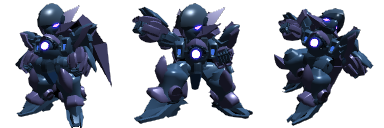
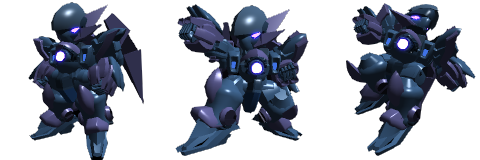
アームドーザ画像をでかくした。

diff --git a/public/javascripts/armdozerInfoScene.js b/public/javascripts/armdozerInfoScene.js
@@ -32,66 +32,66 @@ function armdozerInfoScene(spec,my){
         that.infoWindow = gridWindow({
             pict : core.assets[core.PICT_WINDOW],
             width : 18,
-            height : 10
+            height : 12
         });
         that.infoWindow.x = 16;
         that.infoWindow.y = 70;
         that.addChild(that.infoWindow);
 
         //アームドーザ画像
-        that.armdozerPict = new Sprite(128,128);
+        that.armdozerPict = new Sprite(160,160);
         that.armdozerPict.image = core.assets[core.PICT_PREFIX+armdozerInfo.pictName];
-        that.armdozerPict.x = 20;
+        that.armdozerPict.x = 10;
         that.armdozerPict.y = 90;
         that.addChild(that.armdozerPict);
 
         //アームドーザ名ラベル
         that.armdozerNameLabel = new Label(armdozerInfo.name);
         that.armdozerNameLabel.color = "white";
-        that.armdozerNameLabel.x = 150;
+        that.armdozerNameLabel.x = 160;
         that.armdozerNameLabel.y = 100;
         that.addChild(that.armdozerNameLabel);
 
         //HPラベル
         that.hpLabel = new Label('HP');
         that.hpLabel.color = "white";
-        that.hpLabel.x = 150;
-        that.hpLabel.y = 120;
+        that.hpLabel.x = 160;
+        that.hpLabel.y = 140;
         that.addChild(that.hpLabel);
 
         //HPバリューラベル
         that.hpValueLabel = new Label(armdozerInfo.hp);
         that.hpValueLabel.color = "white";
-        that.hpValueLabel.x = 220;
-        that.hpValueLabel.y = 120;
+        that.hpValueLabel.x = 230;
+        that.hpValueLabel.y = 140;
         that.addChild(that.hpValueLabel);
 
         //攻撃力ラベル
         that.powerLabel = new Label('POWER');
         that.powerLabel.color = 'white';
-        that.powerLabel.x = 150;
-        that.powerLabel.y = 140;
+        that.powerLabel.x = 160;
+        that.powerLabel.y = 160;
         that.addChild(that.powerLabel);
 
         //攻撃力バリューラベル
         that.powerValueLabel = new Label(getPowerLabelValue(armdozerInfo.weapons));
         that.powerValueLabel.color = 'white';
-        that.powerValueLabel.x = 220;
-        that.powerValueLabel.y = 140;
+        that.powerValueLabel.x = 230;
+        that.powerValueLabel.y = 160;
         that.addChild(that.powerValueLabel);
 
         //機動力ラベル
         that.speedLabel = new Label('SPEED');
         that.speedLabel.color = "white";
-        that.speedLabel.x = 150;
-        that.speedLabel.y = 160;
+        that.speedLabel.x = 160;
+        that.speedLabel.y = 180;
         that.addChild(that.speedLabel);
 
         //機動力バリューラベル
         that.speedValueLabel = new Label(armdozerInfo.speed);
         that.speedValueLabel.color = "white";
-        that.speedValueLabel.x = 220;
-        that.speedValueLabel.y = 160;
+        that.speedValueLabel.x = 230;
+        that.speedValueLabel.y = 180;
         that.addChild(that.speedValueLabel);
 
         //決定ボタン

diff --git a/public/javascripts/battleSceneBase.js b/public/javascripts/battleSceneBase.js
@@ -85,12 +85,14 @@ function battleSceneBase(spec,my){
             that.batteryMertorArray[uid].y = 63;
             that.batteryMertorArray[uid].setValue(5);
             that.addChild(that.batteryMertorArray[uid]);
+        }
 
+        for(var uid in that.statusArray){
             //出したバッテリー
             that.batteryNumberArray[uid] = new Sprite(64,64);
             that.batteryNumberArray[uid].image = core.assets[core.PICT_BATTERY_NUMBER];
             that.batteryNumberArray[uid].x = uid===that.userId ? 226 : 30;
-            that.batteryNumberArray[uid].y = 170;
+            that.batteryNumberArray[uid].y = 150;
             that.batteryNumberArray[uid].visible = false;
             that.addChild(that.batteryNumberArray[uid]);
 
@@ -116,7 +118,7 @@ function battleSceneBase(spec,my){
                 pict : core.assets[core.PICT_HIT_EFFECT]
             });
             that.hitEffect[uid].x = uid===that.userId ? 128 : -64;
-            that.hitEffect[uid].y = 76;
+            that.hitEffect[uid].y = 56;
             that.addChild(that.hitEffect[uid]);
 
             //パイロット

diff --git a/public/javascripts/ArmdozerSprite.js b/public/javascripts/ArmdozerSprite.js
@@ -1,10 +1,10 @@
 function ArmdozerSprite(spec,my) {
-    var SPRITE_WIDTH = 128;
-    var SPRITE_HEIGHT = 128;
-    var DEFAULT_X_FOR_DIRECTION_RIGHT = 192;
-    var DEFAULT_Y_FOR_DIRECTION_RIGHT = 140;
-    var DEFAULT_X_FOR_DIRECTION_LEFT = 0;
-    var DEFAULT_Y_FOR_DIRECTION_LEFT = 140;
+    var SPRITE_WIDTH = 160;
+    var SPRITE_HEIGHT = 160;
+    var DEFAULT_X_FOR_DIRECTION_RIGHT = 170;
+    var DEFAULT_Y_FOR_DIRECTION_RIGHT = 110;
+    var DEFAULT_X_FOR_DIRECTION_LEFT = -10;
+    var DEFAULT_Y_FOR_DIRECTION_LEFT = 110;
     var DIRECTION_RIGHT = 'right';
 
     var that = new Sprite(SPRITE_WIDTH,SPRITE_HEIGHT);
@@ -27,7 +27,7 @@ function ArmdozerSprite(spec,my) {
 
     function doAttackMotion(){
         that.frame = core.FRAME_ATTACK;
-        that.tl.moveBy(-100*that.scaleX,0,10)
+        that.tl.moveBy(-80*that.scaleX,0,8)
             .delay(20)
             .moveBy(-50*that.scaleX,0,5)
             .moveBy(50*that.scaleX,0,5);

diff --git a/public/javascripts/topScene.js b/public/javascripts/topScene.js
@@ -25,9 +25,9 @@ function topScene(spec,my){
         that.addChild(that.background);
 
         //選択中アームドーザ
-        that.selectArmdozerSprite = new Sprite(128,128);
+        that.selectArmdozerSprite = new Sprite(160,160);
         that.selectArmdozerSprite.image = core.assets[core.PICT_PREFIX+armdozerPict];
-        that.selectArmdozerSprite.x = (320 - 128)/2;
+        that.selectArmdozerSprite.x = (320 - 160)/2;
         that.selectArmdozerSprite.y = 140;
         that.addChild(that.selectArmdozerSprite);
 
